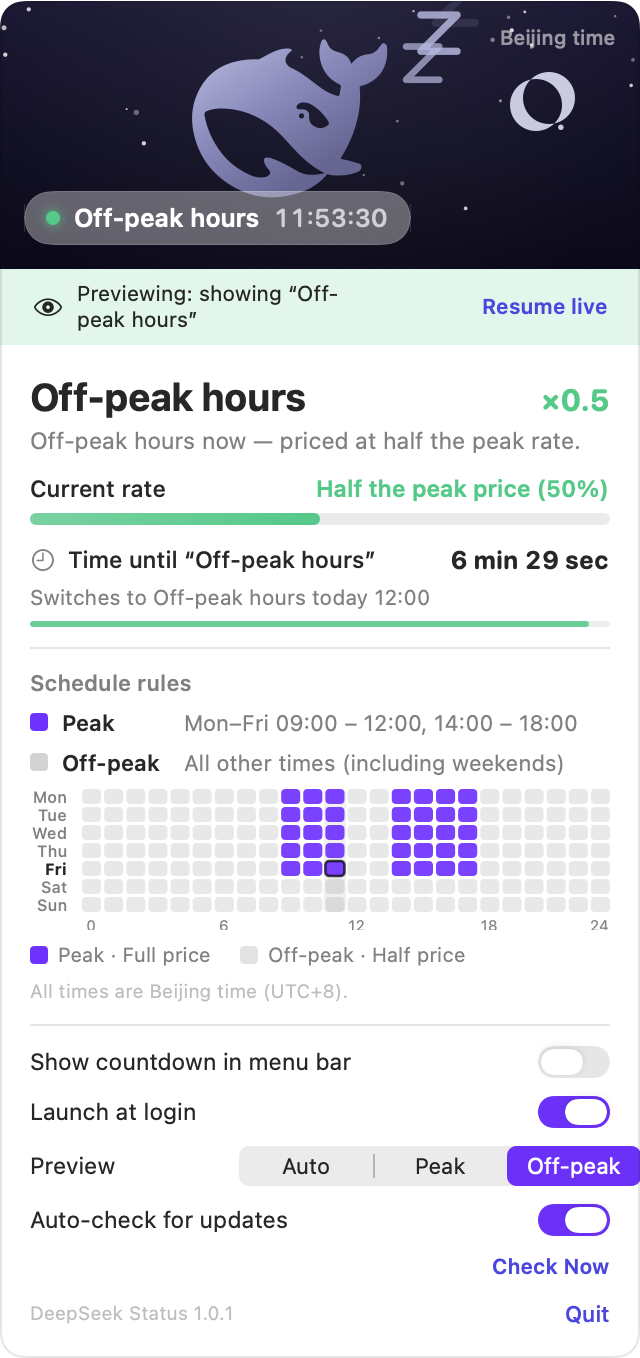
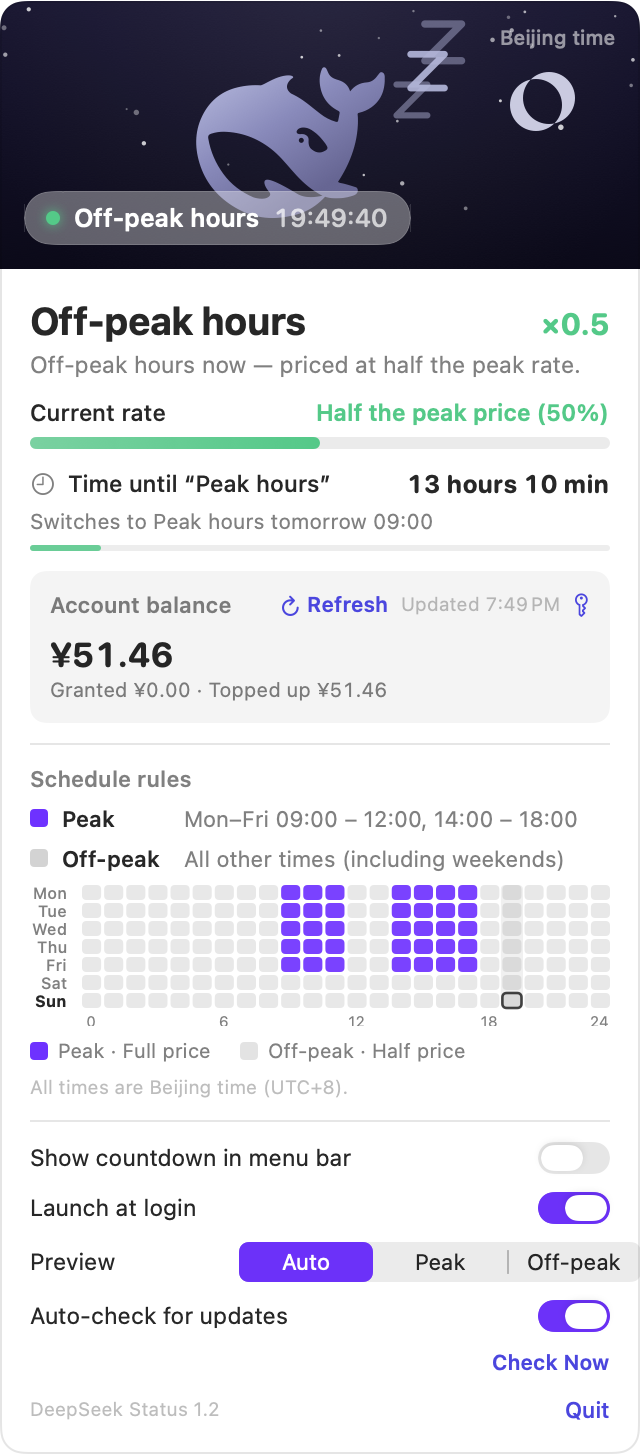
Document the balance feature and re-capture the panel screenshots
- The app now talks to the network, so replace the No network badge with Network: opt-in,
  and spell out both calls (balance when a key is saved, Sparkle updates) in the Privacy section

- Add the balance / API key rows to the usage table, the balance block to the panel list, and
  three FAQ answers: whether a key is needed, where the key is stored, replacing an expired key

- Re-capture the live panel screenshots in English to match the README, using -AppleLanguages (en).
  Both now show the balance block, and the preview-mode banner moved to the peak shot because
  this machine is currently off-peak

diff --git a/README.md b/README.md
@@ -2,7 +2,7 @@
 
 # 🐳 DeepSeek Status
 
-**A tiny macOS menu bar app that tells you — at a glance — whether DeepSeek is in peak or off-peak pricing.**
+**A tiny macOS menu bar app that tells you — at a glance — whether DeepSeek is in peak or off-peak pricing, and how much is left in your API balance.**
 
 <img src="Preview/menubar-gray-peak.png" width="640" alt="DeepSeek Status in the menu bar">
 
@@ -10,7 +10,7 @@
 [![Platform](https://img.shields.io/badge/platform-macOS%2014%2B-blue)](#requirements)
 [![Swift](https://img.shields.io/badge/Swift-5-orange)](https://swift.org)
 [![License](https://img.shields.io/badge/license-MIT-green)](LICENSE)
-[![No network](https://img.shields.io/badge/network-none-brightgreen)](#privacy)
+[![Network](https://img.shields.io/badge/network-opt--in-brightgreen)](#privacy)
 
 </div>
 
@@ -21,8 +21,8 @@ worth answering without opening a browser tab. DeepSeek Status answers it with a
 - 😴 **Off-peak hours** — a pale, sleepy whale lying on its side, with little `z`s floating above it.
 
 Click the whale to open a panel with the current period, the price multiplier, a live countdown to
-the next switch, and a weekly schedule heat map. Optionally it can also show the countdown directly
-next to the menu bar icon.
+the next switch, a weekly schedule heat map, and — once you paste an API key — the balance left on
+your DeepSeek account. Optionally it can also show the countdown directly next to the menu bar icon.
 
 ---
 
@@ -31,7 +31,7 @@ next to the menu bar icon.
 | Peak hours (`×1.0`) | Off-peak hours (`×0.5`) |
 | :---: | :---: |
 | <img src="Preview/live-panel-peak.png" width="330" alt="Panel during peak hours"> | <img src="Preview/live-panel-offPeak.png" width="330" alt="Panel during off-peak hours"> |
-| *Captured live during peak hours.* | *Captured live; the banner is preview mode being on.* |
+| *Captured live; the banner is preview mode being on.* | *Captured live during off-peak hours.* |
 
 Menu bar in both states and on different menu bar backgrounds:
 
@@ -119,6 +119,8 @@ menu bar extras.
 | --- | --- |
 | **Left-click** the whale | Open / close the details panel |
 | **Right-click** the whale | Quick menu: preview peak, preview off-peak, follow live time, show countdown in the menu bar, quit |
+| **Account balance** | Appears in the panel once an API key is saved. **Refresh** queries it immediately; the time of the last successful refresh sits next to the button |
+| **Enter / Change API Key** | Opens the key field in the panel. The key is stored in the macOS Keychain; **Remove** deletes it |
 | **Preview** picker in the panel | Force the app to *display* peak or off-peak so you can see both looks at any time. It only changes what is drawn, never the real pricing |
 | **Show countdown in the menu bar** | Adds an `HH:MM:SS` countdown next to the whale (off by default) |
 | **Launch at login** | Registers the app as a login item via `SMAppService` (off by default) |
@@ -130,6 +132,8 @@ The panel contains:
 - the current period and its price multiplier (`×1.0` / `×0.5`);
 - a "current unit price" comparison bar;
 - the countdown to the next switch, plus how far through the current block you are;
+- **the account balance** once an API key is saved — total, plus the granted / topped-up split, a
+  Refresh button and the time of the last successful refresh;
 - a 7×24 weekly heat map — blue = peak, gray = off-peak, with the current hour outlined;
 - the toggles above, a preview picker, and the update controls.
 
@@ -139,16 +143,42 @@ The panel closes when you click anywhere outside it, press <kbd>Esc</kbd>, or cl
 
 ## Privacy
 
-The app never touches the network. There is no analytics, no update check, no API key, no account.
-It reads your system clock, draws a whale, and that's it. The only system state it writes is the
-optional login item registration.
+The pricing panel needs no account, no key and no network — it reads your system clock and draws a
+whale. The app only talks to the network in two places, and the first one is strictly opt-in:
+
+- **Balance** (opt-in) — if you save a DeepSeek API key, the app calls
+  `GET https://api.deepseek.com/user/balance` on launch, every 5 minutes, and when the panel opens or
+  the Mac wakes with stale data. Your key is sent only in the `Authorization` header of that one
+  request. **With no key saved, no request is ever made.**
+- **Updates** — Sparkle reads the appcast from this repository's latest GitHub release (daily by
+  default, switchable off in the panel).
+
+There is **no analytics and no telemetry**. The API key lives in your **macOS Keychain** — the entry
+is encrypted by the system and readable after first unlock — never in a plain-text preferences file,
+and **Remove** in the panel deletes it. It is deliberately *not* wrapped in a second layer of
+home-made encryption: the key to that would have to sit in the same Keychain anyway, which buys
+nothing. The only other system state the app writes is the optional login item registration.
 
 ---
 
 ## FAQ
 
 **Does it call the DeepSeek API or need an API key?**
-No. It is a calendar, not a client. It only reads the local clock.
+Only if you want the balance. The pricing side is a calendar, not a client — it reads the local clock
+and works with no key at all. If you paste a key into the panel, the app stores it in the Keychain and
+calls `GET /user/balance` to show what is left. That is the only DeepSeek endpoint it ever calls, and
+the balance is **account-wide**: every key of an account returns the same numbers.
+
+**Where is the API key stored, and how do I delete it?**
+In the macOS Keychain, as a generic password scoped to this app
+(`com.parussoft.DeepSeekStatus.deepseek`). It is never written to `UserDefaults` or any plain file, and
+it is not encrypted a second time by the app itself — see [Privacy](#privacy) for why. **Remove** in
+the panel's key editor deletes it.
+
+**My key expired. Can I still replace it?**
+Yes, and that case is handled explicitly: a failed refresh always offers **Change API Key**, and an
+expired key is reported as *"The API key is invalid or expired. Replace it?"*. A working key can be
+replaced too, from the small key button next to the refresh time.
 
 **Which time zone is used?**
 Beijing time (`Asia/Shanghai`, UTC+8, no DST) always, no matter where your Mac is. This is
@@ -196,6 +226,9 @@ the machine is back.
 - The panel is a self-positioned `NSPanel` (not `NSPopover`), so it can never be pushed off-screen.
 - The schedule is computed from a fixed `Asia/Shanghai` calendar with half-open intervals; the app
   refreshes once per second and also on clock changes, day changes and wake from sleep.
+- The balance is one `GET /user/balance` call carrying the key from the Keychain. Responses carry a
+  token, so a reply that arrives after you have already saved a different key is discarded instead of
+  overwriting the new key's state.
 
 Architecture, tooling, measurements and the pitfalls found along the way are documented in
 **[Docs/DEVELOPMENT.md](Docs/DEVELOPMENT.md)**.
